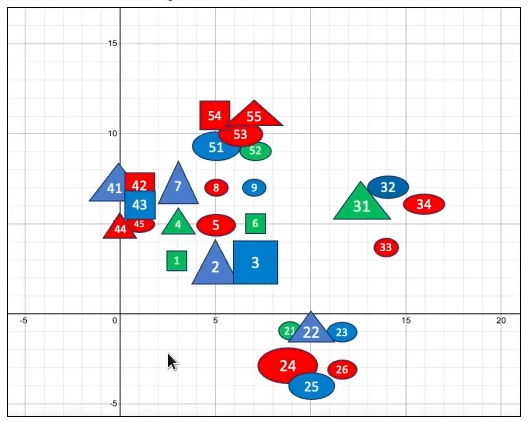
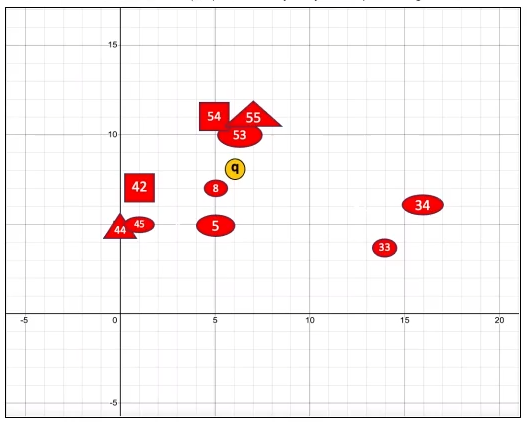
Update docs

Changed region(s): [[0.0, 0.0308, 1.0, 1.0], [0.303, 0.8318, 0.3333, 0.8934]]

diff --git a/docs/narrowing_search_results.md b/docs/narrowing_search_results.md
@@ -8,8 +8,7 @@ When working with vectors, you are not limited to the use of the ```ORDER BY``` 
 SELECT id, v, shape_color
 FROM t3
 WHERE shape_color = 'Red'
-ORDER BY VECTOR_DISTANCE(v, TO_VECTOR('[1.1, 2.7]'))
+ORDER BY VECTOR_DISTANCE(v, TO_VECTOR('[6, 8]'))
 FETCH FIRST 5 ROWS ONLY
 ```
-
 ![Attribute Filtering](../imgs/attribute_filtering.png)
